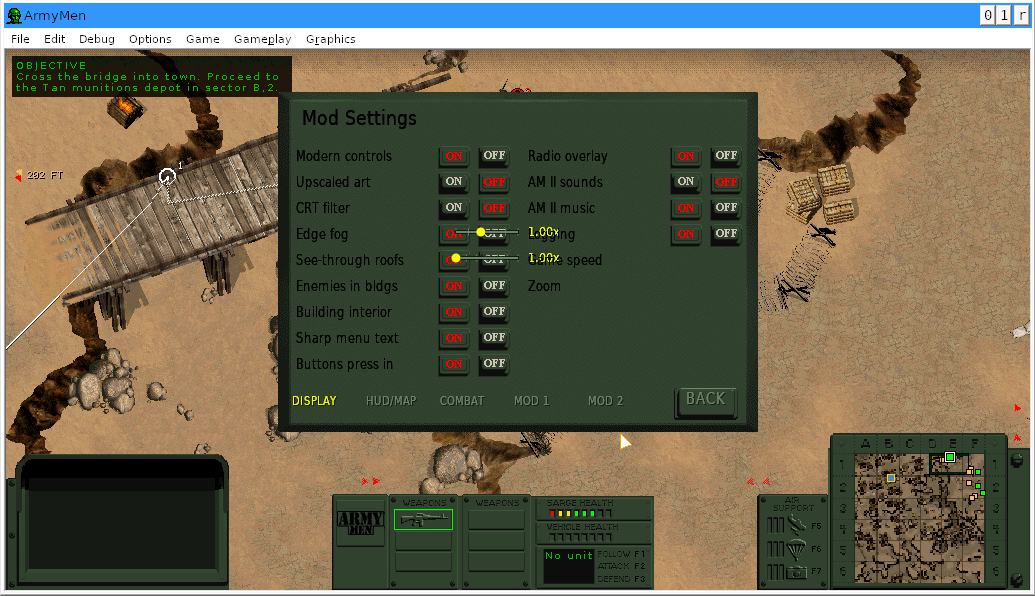
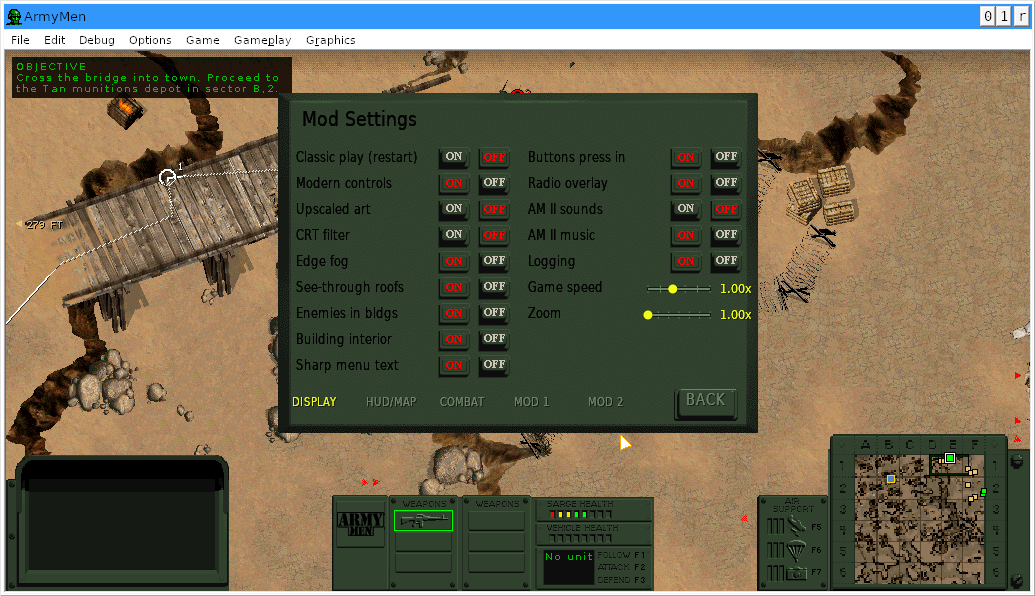
Fix in-game Mod Settings slider alignment, recapture screenshot, and update README/SCREENSHOTS labels

diff --git a/src/menutext.c b/src/menutext.c
@@ -146,7 +146,8 @@ int menutext_capture(void *surface, int x, int y, const char *text, int font, in
     int centre = NO_CENTRE;
     int have_centre = button_centre(text, x, y, &centre);
     Label l = { { 0 }, x, y, sz.cx, sz.cy, font, NO_CENTRE, 1.0f, LABEL_COLOUR };
-    int k = layout_view_is_gameplay() ? layout_menu_scale() : 0;
+    /* mm_init() publishes sliders before SCRN_FULL is set (game_menu_up() still 0), so use layout_menu_scale_value() */
+    int k = layout_view_is_gameplay() ? layout_menu_scale_value() : 0;
     if (k) {                                                    /* an in-game menu: x k around the centre (layout.c) */
         int qx = x + sz.cx, qy = y + sz.cy, cyy = y;
         layout_menu_place(k, &l.x, &l.y); layout_menu_place(k, &qx, &qy);
@@ -203,7 +204,8 @@ void menutext_set_sliders(const MtSlider *s, int n, int state)
     if (n > MT_SLIDERS) n = MT_SLIDERS;
     MtSlider t[MT_SLIDERS];
     memset(t, 0, sizeof t);
-    int k = layout_view_is_gameplay() ? layout_menu_scale() : 0;
+    /* mm_init() publishes sliders before SCRN_FULL is set (game_menu_up() still 0), so use layout_menu_scale_value() */
+    int k = layout_view_is_gameplay() ? layout_menu_scale_value() : 0;
     for (int i = 0; i < n; i++) {
         t[i] = s[i];
         t[i].fk = 1.0f;
@@ -499,7 +501,8 @@ int menutext_overlay(int dw, int dh, int pw, int ph, const uint32_t **pix, unsig
     }
     if (g_tip[0] && ni < IT_MAX) {                         /* the hover info box: under the row (above it near the bottom) */
         RECT rr = g_tip_row; float fk = 1.0f;
-        int k = layout_view_is_gameplay() ? layout_menu_scale() : 0;
+        /* mm_init() publishes sliders before SCRN_FULL is set (game_menu_up() still 0), so use layout_menu_scale_value() */
+    int k = layout_view_is_gameplay() ? layout_menu_scale_value() : 0;
         if (k) { int x0 = rr.left, y0 = rr.top, x1 = rr.right, y1 = rr.bottom; layout_menu_place(k, &x0, &y0); layout_menu_place(k, &x1, &y1); SetRect(&rr, x0, y0, x1, y1); fk = k / 64.0f; }
         char l1[160], *l2 = NULL; lstrcpynA(l1, g_tip, sizeof l1);
         char *bar = strchr(l1, '|'); if (bar) { *bar = 0; l2 = bar + 1; }

diff --git a/src/layout.c b/src/layout.c
@@ -954,15 +954,20 @@ void layout_group_cycle(int g)
  * 64ths (64 = 1x) and goes in HALF steps - the largest of 1, 1.5, 2, 2.5, 3 at which 640x480 fits. Whole steps
  * left every window below 960 game pixels high (e.g. 1534x808) with the small 1x menu and its small text.
  * [display] menu_scale: 0 = auto, 1..3 fixed. */
-int layout_menu_scale(void)
+int layout_menu_scale_value(void)
 {
     static int cfg = -1;
     if (cfg < 0) cfg = GetPrivateProfileIntA("display", "menu_scale", 0, mod_ini_path());
-    if (!layout_active() || !game_menu_up()) return 0;
+    if (!layout_active()) return 0;
     int hx = g_cfg.width * 2 / LAYOUT_DESIGN_W, hy = g_cfg.height * 2 / LAYOUT_DESIGN_H;   /* halves that fit */
     int h = cfg > 0 ? cfg * 2 : hx < hy ? hx : hy;
     h = h < 2 ? 2 : h > 6 ? 6 : h;
     return h * 32;
+}
+int layout_menu_scale(void)
+{
+    if (!layout_active() || !game_menu_up()) return 0;
+    return layout_menu_scale_value();
 }
 /* design point -> game screen point (k from layout_menu_scale, 64ths). Every edge goes through this, so
  * neighbouring pictures and fills meet without gaps at the half steps too. */

diff --git a/src/common.h b/src/common.h
@@ -972,6 +972,7 @@ void controls_replay_fire(int tx, int ty);
 int  weapons_select_type(int type);
 
 /* update.c: built-in GitHub Releases updater */
+int  layout_menu_scale_value(void);         /* layout.c: in-game menu scale (64ths) even before SCRN_FULL is published */
 void update_cleanup(void);
 void update_check_async(int manual);
 int  update_message(HWND h, UINT msg, WPARAM wp, LPARAM lp);

diff --git a/docs/SCREENSHOTS.md b/docs/SCREENSHOTS.md
@@ -23,12 +23,13 @@ world-space route line and tactical alerts.
 
 Shows the mouse-driven squad and air-support radial. Opening the radial over Sarge changes it to the stance wheel.
 
-## Consolidated Mod Settings
+## In-game Mod Settings
 
-![Mod Settings](images/gallery/04-mod-settings.png)
+![In-game Mod Settings](images/gallery/04-mod-settings.png)
 
-Shows the in-game settings screen, sliders, tester logging option, display/audio grouping and the simplified page
-navigation. Additional pages cover HUD/map, combat and modern-control features.
+Shows the configurable in-game Mod Settings menu with per-feature toggles, sliders for game speed and zoom,
+diagnostic logging, and tabs for Display, HUD/Map, Combat, and Modern-control features—so every feature can be
+enabled, tuned, or turned off without editing files.
 
 ## Equipment and combat overlays
 

diff --git a/README.md b/README.md
@@ -32,9 +32,9 @@ WINEDLLOVERRIDES="ddraw=n,b" %command%
 
 ## Screenshots
 
-| Command & stance radial | Consolidated Mod Settings |
+| Command & stance radial | In-game Mod Settings (fully configurable) |
 |---|---|
-| ![Command radial](docs/images/gallery/03-command-radial.png) | ![Mod Settings](docs/images/gallery/04-mod-settings.png) |
+| ![Command radial](docs/images/gallery/03-command-radial.png) | ![In-game Mod Settings](docs/images/gallery/04-mod-settings.png) |
 
 **[See more screenshots →](docs/SCREENSHOTS.md)** (minimap & route guidance, equipment & combat overlays, vehicle interaction, and the optional classic centered-HUD preset).
 
